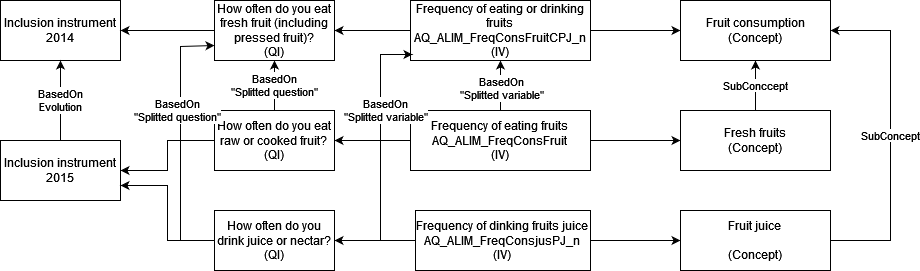
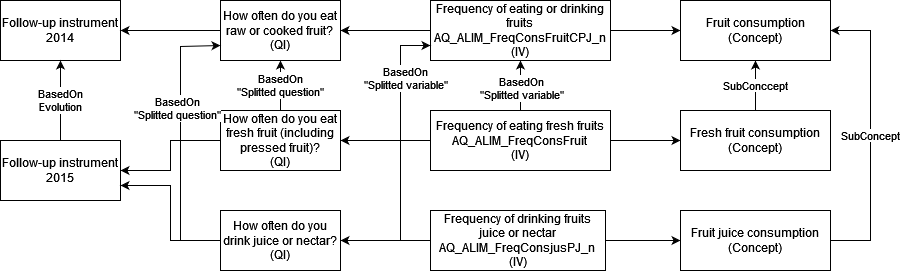
harmonization between text and diagram

diff --git a/use-cases/constances-fruits.md b/use-cases/constances-fruits.md
@@ -26,13 +26,13 @@ Ideas for DDI modelisation:
 Instrument: Follow-up 2014 
 - Concept: Fruit consumption
   - Question: How often do you eat raw or cooked fruit (including 100% fruit juice)? / À quelle fréquence consommez-vous des fruits crus ou cuits (y compris les jus 100% fruit) ?
-    - InstanceVariable: AQ_ALIM_FreqConsFruit
+    - InstanceVariable: Frequency of eating or drinking fruits - AQ_ALIM_FreqConsFruit
 
 Instrument: Follow-up 2015
 - Concept: Fresh fruit consumption / Consommation de fruits frais?
-- (BasedOn Previous question) How often do you eat fresh fruit (including pressed fruit)? / À quelle fréquence mangez-vous des fruits frais (y compris fruits pressés)?
-  - Instance variable: AQ_ALIM_FreqConsFruitCPJ_n
+- (Splitted question based on previous question) How often do you eat fresh fruit (including pressed fruit)? / À quelle fréquence mangez-vous des fruits frais (y compris fruits pressés)?
+  - Instance variable: Frequency of eating fresh fruits - AQ_ALIM_FreqConsFruitCPJ_n
 
 - Concept: Fruit juice consumption / Consommation de jus de fruit?
-- (BasedOn Previous question) How often do you drink juice or nectar?
-  - Instance variable: AQ_ALIM_FreqConsjusPJ_n
+- (Splitted question based on previous question) How often do you drink fruit juice or nectar?
+  - Instance variable: Frequency of drinking fruits juice or nectar - AQ_ALIM_FreqConsjusPJ_n
